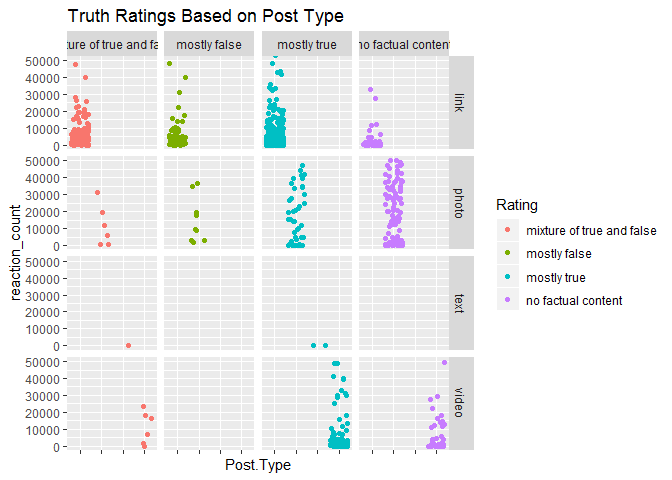
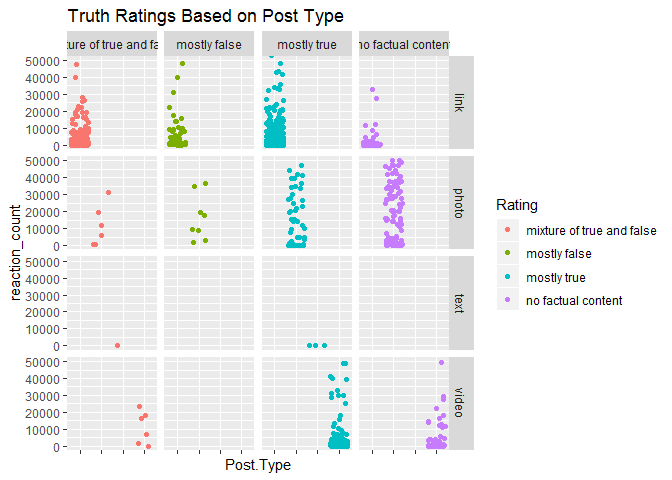
update

diff --git a/facebook_factcheck.md b/facebook_factcheck.md
@@ -173,13 +173,11 @@ fb[which(is.na(fb$comment_count)),"comment_count"]<- 131
 #assigning variables
 Total_count<- (fb$share_count+ fb$reaction_count+fb$comment_count)
 
+fals_tags<-fb[fb$Rating=="mostly false",]
+Acount<-fb[fb$Page == "Addicting info",]
 
-#fRating<-(fb$Rating -("mostly true") + ("no factual content"))
 
 
-#graphs
-#ggplot(fb)+
-  #geom_histogram(aes(fRating))
   
 
 ggplot(fb,aes(x=Category,y = percent(1), fill= Rating))+
@@ -384,31 +382,31 @@ ggplot(fb)+
 ![](facebook_factcheck_files/figure-markdown_github/unnamed-chunk-4-4.png)
 
 ``` r
-ggplot(fb, aes(x=" ", y= Total_count, fill= reaction_count)) +
-       geom_bar(width = 1, stat = "identity") +
-       coord_polar("y", start=1)+ 
-  ggtitle("Total Count vs Reaction Count")
+slices<-c(12231655,8953222,1176975)
+lbls1 <- c("Reaction Count","Share Count","Comment Count")
+pct<- round(slices/sum(slices)*100)
+lbls1<- paste(lbls1,pct)
+lbls1<-paste(lbls1,"%",sep = "")
+pie(slices,labels = lbls1, col = rainbow(length(lbls1)))
 ```
 
-![](facebook_factcheck_files/figure-markdown_github/unnamed-chunk-4-5.png)
+![](facebook_factcheck_files/figure-markdown_github/unnamed-chunk-5-1.png)
 
 ``` r
-ggplot(fb, aes(x=" ", y=Total_count, fill= share_count)) +
-       geom_bar(width = 1, stat = "identity") +
-       coord_polar("y", start=12)+ 
-  ggtitle("Total Count vs Share Count")
+vals<- c(89.53222,122.31655,11.76975)
+val_names<- sprintf("%s(%s)", c("Share Count","Reaction Count"," Comment Count"),scales::percent(round(vals/sum(vals),digits=4)))
+names(vals)<-val_names
+
+waffle::waffle(vals, rows=8)+
+  ggthemes::scale_fill_tableau(name=NULL)+
+  ggtitle("Total Count")+
+  labs(x=" 1 square = 100,000")
 ```
 
-![](facebook_factcheck_files/figure-markdown_github/unnamed-chunk-4-6.png)
+    ## Scale for 'fill' is already present. Adding another scale for 'fill',
+    ## which will replace the existing scale.
 
-``` r
-ggplot(fb, aes(x=" ", y=Total_count, fill= comment_count)) +
-       geom_bar(width = 1, stat = "identity") +
-       coord_polar("y", start=6)+ 
-  ggtitle("Total Count vs Comment Count")
-```
-
-![](facebook_factcheck_files/figure-markdown_github/unnamed-chunk-4-7.png)
+![](facebook_factcheck_files/figure-markdown_github/unnamed-chunk-5-2.png)
 
 ``` r
 fals_tags<-fb[fb$Rating=="mostly false",]
@@ -419,6 +417,17 @@ ggplot(data = fals_tags)+
   ggtitle("Mostly False based Left vs. Right")
 ```
 
-![](facebook_factcheck_files/figure-markdown_github/unnamed-chunk-4-8.png)
+![](facebook_factcheck_files/figure-markdown_github/unnamed-chunk-5-3.png)
+
+``` r
+ggplot(fb,aes( x= Post.Type,y=Total_count, fill=Category))+
+  geom_col()+
+  facet_grid(Post.Type ~ Rating)+
+  coord_cartesian(ylim=c(0,50000))+
+   theme( axis.text.x.bottom = element_blank())+
+  ggtitle("Truth Ratings Based on Post Type")
+```
+
+![](facebook_factcheck_files/figure-markdown_github/unnamed-chunk-6-1.png)
 
 Note that the `echo = FALSE` parameter was added to the code chunk to prevent printing of the R code that generated the plot.
